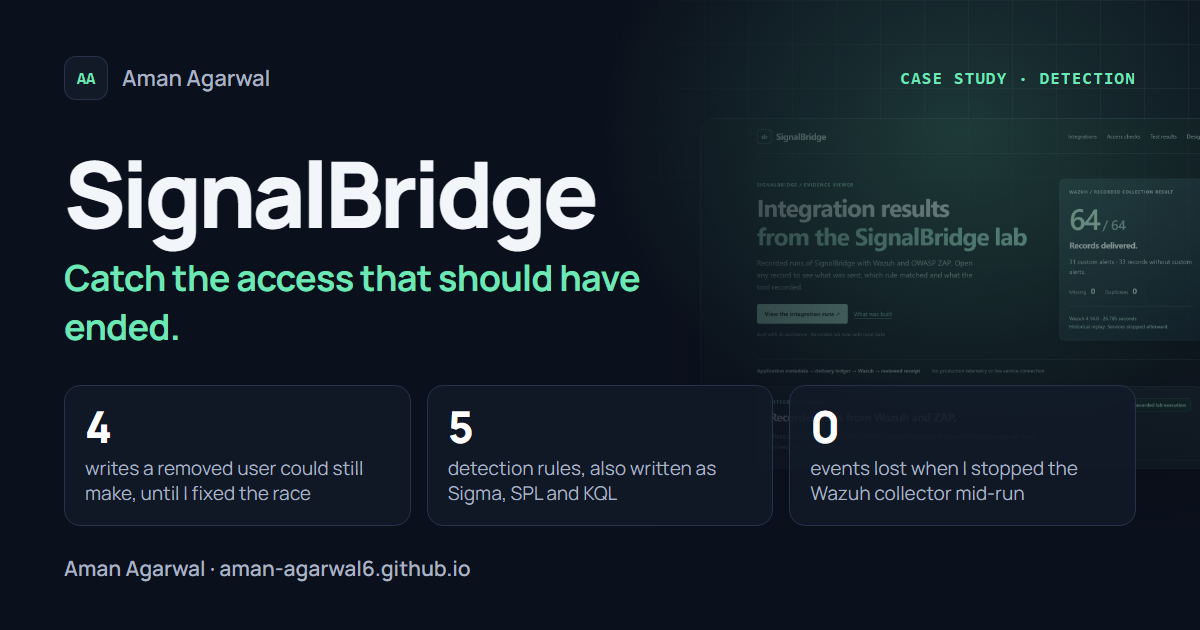
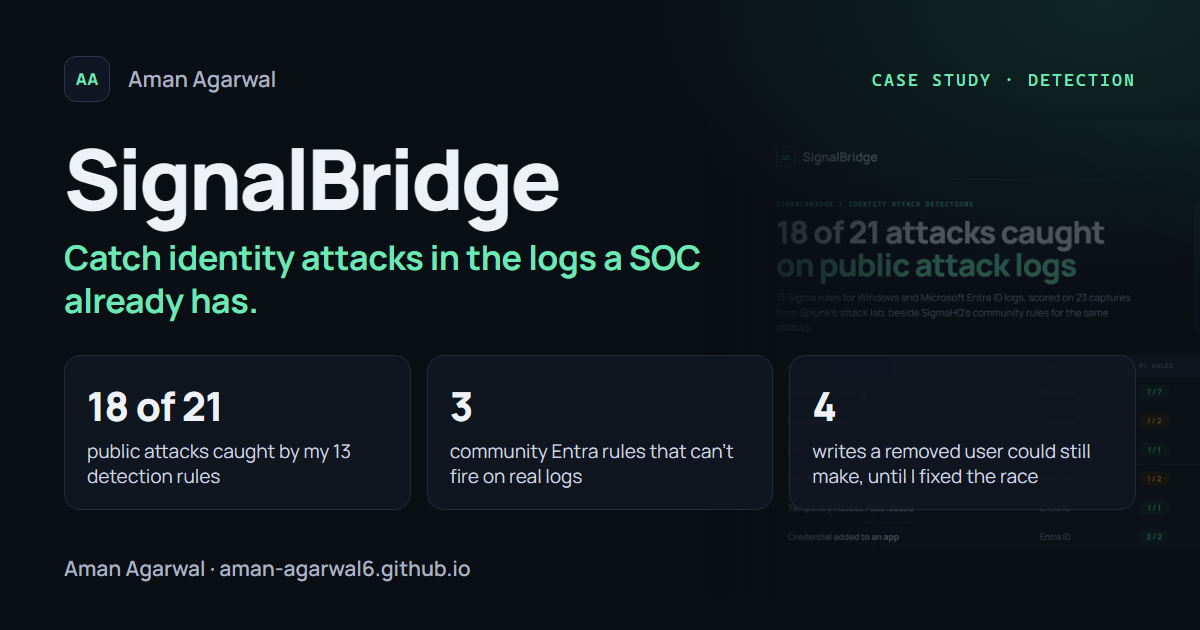
Lead SignalBridge with its identity detection results
- Homepage, case study, recruiter summary and project index describe
  SignalBridge as identity attack detection: 18 of 21 public attack
  captures caught, 3 community Entra rules that can't fire, 4 writes fixed
- New case-study section with the per-attack comparison against SigmaHQ
- New results image and link-preview card replace the old evidence-viewer
  screenshot
- Plain-language intro and findings; jargon moved out of the body text

diff --git a/projects/signalbridge.html b/projects/signalbridge.html
@@ -11,14 +11,14 @@
     <title>SignalBridge case study · Aman Agarwal</title>
     <meta
       name="description"
-      content="SignalBridge is a detection lab that catches access that should have ended. Five detection rules, written as Sigma, SPL and KQL, run against signed app events and real Keycloak, Wazuh, OWASP ZAP and Shuffle in an isolated lab."
+      content="SignalBridge: Sigma detection rules for identity attacks in Windows and Microsoft Entra ID logs, tested on public attack data and compared with SigmaHQ's rules. 18 of 21 attacks caught, plus a lab that catches access that should have ended."
     />
     <link rel="canonical" href="https://aman-agarwal6.github.io/projects/signalbridge.html" />
     <meta property="og:type" content="article" />
-    <meta property="og:title" content="SignalBridge · Catch the access that should have ended" />
+    <meta property="og:title" content="SignalBridge · Catch identity attacks in the logs a SOC already has" />
     <meta
       property="og:description"
-      content="A detection lab with five rules written as Sigma, SPL and KQL, run in Splunk and a Kusto emulator, and tested against real Keycloak, Wazuh, OWASP ZAP and Shuffle."
+      content="13 Sigma rules for password spraying, Kerberoasting, MFA fatigue and device code phishing, tested on 23 public attack captures: 18 of 21 attacks caught, and 3 community Entra rules found that can't fire on real logs."
     />
     <meta property="og:url" content="https://aman-agarwal6.github.io/projects/signalbridge.html" />
     <meta property="og:image" content="https://aman-agarwal6.github.io/assets/img/og-signalbridge.png" />
@@ -53,26 +53,27 @@
         <div class="eyebrow">Case study · Security operations · Detection engineering</div>
         <h1>SignalBridge</h1>
         <p class="lede">
-          A detection lab that catches access that should have ended. Two test apps send signed
-          events about who tried to read what; five detection rules flag access that continues
-          after a permission was removed, and an analyst takes each finding to a verified fix. I
-          ran it against real Keycloak, Wazuh, OWASP ZAP and Shuffle in an isolated lab.
+          Detection rules that catch identity attacks in the logs a security team already
+          collects: Windows domain controller events and Microsoft Entra ID sign-in and audit logs.
+          I tested them on public attack data I didn't write and compared them with the security
+          community's rules for the same attacks. A lab version, run against real Keycloak, Wazuh,
+          OWASP ZAP and Shuffle, catches access that continues after it was removed.
         </p>
         <div class="btn-row">
-          <a class="btn btn-primary" href="https://github.com/aman-agarwal6/signalbridge">Source code</a>
-          <a class="btn btn-ghost" href="https://github.com/aman-agarwal6/signalbridge/blob/main/docs/EVIDENCE.md">Evidence guide</a>
-          <a class="btn btn-ghost" href="https://aman-agarwal6.github.io/signalbridge/portfolio/access-assurance.html">Recorded walkthrough</a>
+          <a class="btn btn-primary" href="https://github.com/aman-agarwal6/signalbridge/blob/main/detections/identity/README.md">Rules and results</a>
+          <a class="btn btn-ghost" href="https://github.com/aman-agarwal6/signalbridge">Source code</a>
+          <a class="btn btn-ghost" href="https://github.com/aman-agarwal6/signalbridge/blob/main/docs/EVIDENCE.md">Lab evidence guide</a>
         </div>
         <ul class="tiles" aria-label="Results at a glance">
+          <li><strong>18 of 21</strong>public attacks caught by my 13 identity rules, with no alerts on unrelated files</li>
+          <li><strong>3</strong>community Entra rules I found can't fire on real log exports</li>
           <li><strong>4</strong>writes a removed user could still make, until I found and fixed the race</li>
-          <li><strong>5</strong>detection rules, also written as Sigma, SPL and KQL and run in real query engines</li>
-          <li><strong>0</strong>events lost or duplicated when I stopped the Wazuh collector mid-run</li>
-          <li><strong>48</strong>attack and benign scenarios scored, with misses and false alerts counted</li>
+          <li><strong>1</strong>critical case, opened when an account AccessOps had offboarded was used again</li>
         </ul>
         <dl class="cs-meta">
           <div>
             <dt>Status</dt>
-            <dd>Public source, signed v0.1.0 release</dd>
+            <dd>Public source; CI re-scores every rule on each change</dd>
           </div>
           <div>
             <dt>Timeline</dt>
@@ -80,56 +81,104 @@
           </div>
           <div>
             <dt>Stack</dt>
-            <dd>Python, Django, PostgreSQL, Docker</dd>
+            <dd>Sigma, Python, Django, PostgreSQL, Docker</dd>
           </div>
           <div>
             <dt>Works with</dt>
-            <dd>Keycloak, Wazuh, OWASP ZAP, Shuffle SOAR, Splunk, Prometheus and Grafana</dd>
+            <dd>Windows Security and Microsoft Entra ID logs, Splunk, KQL, Wazuh, Keycloak, OWASP ZAP, Shuffle SOAR</dd>
           </div>
         </dl>
         <figure class="figure">
-          <a class="screenshot-link" href="../assets/img/signalbridge-evidence.webp" data-image="../assets/img/signalbridge-evidence.webp" data-image-title="SignalBridge evidence viewer" data-caption="The evidence viewer: each lab run with its record, failed runs included" aria-label="Enlarge SignalBridge evidence viewer"><img
-            src="../assets/img/signalbridge-evidence.webp"
+          <a class="screenshot-link" href="../assets/img/signalbridge-identity.png" data-image="../assets/img/signalbridge-identity.png" data-image-title="SignalBridge identity detection results" data-caption="Identity detection results from the score record: my rules and SigmaHQ's on the same public attack logs" aria-label="Enlarge SignalBridge identity detection results"><img
+            src="../assets/img/signalbridge-identity.png"
             width="1600"
             height="1000"
-            alt="The SignalBridge evidence viewer showing lab runs from Wazuh, with each record compared against the rule that fired"
+            alt="SignalBridge identity detection results: 18 of 21 attacks caught on public attack logs, with a per-attack comparison against SigmaHQ's rules"
           /><span class="inspect-button" aria-hidden="true">Enlarge ↗</span></a>
-          <figcaption>The evidence viewer: each lab run with its record, failed runs included.</figcaption>
+          <figcaption>Identity detection results from the score record: my rules and SigmaHQ's on the same public attack logs.</figcaption>
         </figure>
       </div>
 
-      <p class="ownership-decision"><strong>Key decision</strong>Re-check permissions inside the write itself. A test showed that checking first let a just-removed user keep writing, so the check now runs in the same database transaction as the change.</p>
+      <p class="ownership-decision"><strong>Key decision</strong>Test the rules on attack data I didn't write, decide in advance what each one should catch, and publish the first run beside the fixes.</p>
       <nav class="contents" aria-label="On this page">
         <span>In this case study</span><a href="#shows">What it shows</a
-        ><a href="#flow">How it works</a><a href="#caught">What testing found</a
-        ><a href="#results">Results</a><a href="#sigma">Detection as code</a
-        ><a href="#leaver">AccessOps link</a><a href="#limits">Limits</a>
+        ><a href="#identity">Identity detections</a><a href="#flow">How the lab works</a
+        ><a href="#caught">What testing found</a><a href="#results">Lab results</a
+        ><a href="#sigma">Detection as code</a><a href="#leaver">AccessOps link</a
+        ><a href="#limits">Limits</a>
       </nav>
 
       <section class="cs-section" aria-labelledby="shows">
         <h2 id="shows">What it shows</h2>
         <div class="two-col">
           <div class="decision">
-            <h3>Detection engineering</h3>
-            <p>Five versioned rules, rewritten as Sigma with MITRE ATT&amp;CK tags, then run as SPL in Splunk and as KQL in a Kusto emulator.</p>
+            <h3>Identity attack detection</h3>
+            <p>13 Sigma rules for password spraying, Kerberoasting, MFA fatigue, device code phishing and backdoored app credentials, mapped to MITRE ATT&amp;CK.</p>
+          </div>
+          <div class="decision">
+            <h3>Tested on data I didn't write</h3>
+            <p>23 public attack captures from Splunk's attack lab. I wrote down what each rule should catch before the first run, and CI re-scores every rule on each change.</p>
+          </div>
+          <div class="decision">
+            <h3>Checked against the community</h3>
+            <p>SigmaHQ's rules for the same attacks ran on the same logs. Three of their Entra rules can't fire on real exports, and one attack slipped past both their rule and my first draft.</p>
           </div>
           <div class="decision">
             <h3>Real security tools</h3>
-            <p>Keycloak sign-in with MFA, a Wazuh SIEM, OWASP ZAP scans and a Shuffle SOAR workflow, all in an isolated lab.</p>
-          </div>
-          <div class="decision">
-            <h3>From alert to fix</h3>
-            <p>Each finding goes from case to analyst review to a retest, and nobody can approve their own fix.</p>
-          </div>
-          <div class="decision">
-            <h3>Reliable event intake</h3>
-            <p>Signed, de-duplicated events that survived a killed worker, a stopped collector and a 13.5-hour run.</p>
+            <p>In the lab, Keycloak sign-in with MFA, a Wazuh SIEM, OWASP ZAP and a Shuffle SOAR workflow, with every finding taken from case to a reviewed fix.</p>
           </div>
         </div>
       </section>
 
+      <section class="cs-section" aria-labelledby="identity">
+        <h2 id="identity">Identity attack detections</h2>
+        <p class="lede">
+          The rules read the logs most security teams already collect: Windows domain controller
+          Security events and Microsoft Entra ID sign-in and audit logs. I scored them, and
+          SigmaHQ's community rules for the same attacks, on 23 public attack captures from
+          Splunk's attack lab.
+        </p>
+        <div class="table-wrap findings-table" tabindex="0" role="region" aria-label="Scrollable table of identity detection results">
+          <table>
+            <caption class="sr-only">Attack captures caught by my rules and by SigmaHQ's rules, by attack type</caption>
+            <thead>
+              <tr><th scope="col">Attack</th><th scope="col">Logs</th><th scope="col">My rules</th><th scope="col">SigmaHQ's rules</th></tr>
+            </thead>
+            <tbody>
+              <tr><th scope="row">Password spraying</th><td>Windows</td><td>7 of 7</td><td>No rule in the comparison</td></tr>
+              <tr><th scope="row">Password spraying</th><td>Entra ID</td><td>1 of 2: missed a spray spread across many addresses</td><td>No rule in the comparison</td></tr>
+              <tr><th scope="row">Kerberoasting</th><td>Windows</td><td>1 of 2: a single ticket is below the burst threshold</td><td>1 of 2: missed the burst run as SYSTEM</td></tr>
+              <tr><th scope="row">Kerberos pre-authentication turned off</th><td>Windows</td><td>1 of 1</td><td>No rule in the comparison</td></tr>
+              <tr><th scope="row">Sign-in attempts on disabled accounts</th><td>Windows</td><td>1 of 1</td><td>0 of 1: reads only logon codes, not Kerberos</td></tr>
+              <tr><th scope="row">MFA fatigue</th><td>Entra ID</td><td>1 of 2: two failures is below my threshold of three</td><td>2 of 2</td></tr>
+              <tr><th scope="row">Device code phishing</th><td>Entra ID</td><td>1 of 1</td><td>0 of 1: looks for a field the logs don't have</td></tr>
+              <tr><th scope="row">Consent to a malicious app</th><td>Entra ID</td><td>1 of 1</td><td>1 of 1</td></tr>
+              <tr><th scope="row">New MFA method registered</th><td>Entra ID</td><td>2 of 2</td><td>2 of 2</td></tr>
+              <tr><th scope="row">Temporary Access Pass issued</th><td>Entra ID</td><td>1 of 1</td><td>0 of 1: expects an older activity name</td></tr>
+              <tr><th scope="row">Credential added to an app</th><td>Entra ID</td><td>2 of 2</td><td>0 of 2: looks for a field the logs don't have</td></tr>
+            </tbody>
+          </table>
+        </div>
+        <p class="scope-note">The disabled-account capture is also a password spray and counts once in the totals. Overall, my rules caught 18 of 21 attack files and SigmaHQ's caught 6 of the 12 their rules cover; together, 20 of 21. No rule fired on a file it wasn't meant for.</p>
+        <div class="two-col">
+          <div class="decision">
+            <h3>Decided before the first run</h3>
+            <p>Which rules should fire on each file was written down first. The first run caught 17 of 22 expected pairs and showed two design flaws, which I fixed instead of loosening any threshold.</p>
+          </div>
+          <div class="decision">
+            <h3>The attack that hid behind the computer</h3>
+            <p>Kerberoasting run as SYSTEM asks for tickets under the computer's account, which my first draft ignored, like SigmaHQ's rule. My rule now counts every requester and alerts on the burst.</p>
+          </div>
+        </div>
+        <p class="case-evidence-link">
+          <a href="https://github.com/aman-agarwal6/signalbridge/blob/main/detections/identity/README.md">Rules, findings and method</a> ·
+          <a href="https://github.com/aman-agarwal6/signalbridge/blob/main/detections/identity/score-report.json">Score record</a> ·
+          <a href="https://github.com/aman-agarwal6/signalbridge/blob/main/detections/identity/sources.json">Pinned sources and expectations</a>
+        </p>
+      </section>
+
       <section class="cs-section" aria-labelledby="flow">
-        <h2 id="flow">How it works</h2>
+        <h2 id="flow">How the lab works</h2>
         <p class="lede">
           SignalBridge started as a monitor for two of my own apps, BetTail and Netted. For the lab
           I built two test apps, one for documents and one for expenses, with a deliberate access
@@ -216,7 +265,7 @@
       </section>
 
       <section class="cs-section" aria-labelledby="results">
-        <h2 id="results">Results</h2>
+        <h2 id="results">Lab results</h2>
         <p class="scope-note">October 1–5, 2026, in an isolated lab with synthetic data. Each row links the record its run wrote.</p>
         <div class="table-wrap findings-table" tabindex="0" role="region" aria-label="Scrollable table of lab results">
           <table>
@@ -234,7 +283,7 @@
               <tr><th scope="row">PostgreSQL races and a killed worker</th><td>14 checks passed, no partial cases</td><td><a href="https://github.com/aman-agarwal6/signalbridge/blob/main/docs/evidence/20261001-postgresql-in-network-ed3829e7b3dd45379d0c0290e324df85.json">Run</a></td></tr>
               <tr><th scope="row">Continuous run</th><td>27,118 events delivered over 13.5 hours</td><td><a href="https://github.com/aman-agarwal6/signalbridge/blob/main/docs/evidence/20261004-reliability-continuous-894fb388a2004b43b6b1643e93342df4-summary.json">Run</a></td></tr>
               <tr><th scope="row">Prometheus and Grafana</th><td>Backlog alerts fired and cleared; 24 checks passed</td><td><a href="https://github.com/aman-agarwal6/signalbridge/blob/main/docs/evidence/20261003-monitoring-native-0cd4256f4a1c4f2692f67eae4704bd53.json">Run</a></td></tr>
-              <tr><th scope="row">Detection evaluation, 48 scenarios</th><td>71% precision (15 of 21), 65% recall (15 of 23)</td><td><a href="https://github.com/aman-agarwal6/signalbridge/blob/main/docs/evidence/20261005-enterprise-detection-evaluation-public-release.json">Run</a></td></tr>
+              <tr><th scope="row">Lab rules on 48 scenarios I wrote</th><td>71% precision (15 of 21), 65% recall (15 of 23); a regression check, not real-world accuracy</td><td><a href="https://github.com/aman-agarwal6/signalbridge/blob/main/docs/evidence/20261005-enterprise-detection-evaluation-public-release.json">Run</a></td></tr>
             </tbody>
           </table>
         </div>
@@ -309,7 +358,8 @@
       <section class="cs-section prose" aria-labelledby="limits">
         <h2 id="limits">Limits</h2>
         <ul class="limits">
-          <li>Synthetic data in an isolated lab on one PC; not a production deployment.</li>
+          <li>The identity rules ran on attack-lab captures through SQLite, not in Splunk or Sentinel. No alerts on the wrong files is a sanity check, not a false-alarm rate for a real network.</li>
+          <li>The lab used synthetic data in an isolated network on one PC; it is not a production deployment.</li>
           <li>I wrote the 48 evaluation scenarios knowing the rules, so the scores catch regressions rather than measure real-world accuracy.</li>
           <li>The planned 24-hour run stopped at 10.6 hours of Wazuh capture, and I didn't repeat it.</li>
           <li>ZAP ran one passive rule on captured traffic, not an active scan.</li>
@@ -317,7 +367,7 @@
         </ul>
       </section>
 
-      <section class="case-contact" aria-labelledby="discuss-signalbridge"><h2 id="discuss-signalbridge">Discuss SignalBridge</h2><p>Ask about the write race, the query Splunk refused or how a leaver event from AccessOps becomes a case. Email me at <strong>aagarwalcollege@gmail.com</strong>.</p><div class="btn-row"><a class="btn btn-ghost" href="../#projects">All projects →</a></div></section>
+      <section class="case-contact" aria-labelledby="discuss-signalbridge"><h2 id="discuss-signalbridge">Discuss SignalBridge</h2><p>Ask about the community rules that can't fire, the write race or how a leaver event from AccessOps becomes a case. Email me at <strong>aagarwalcollege@gmail.com</strong>.</p><div class="btn-row"><a class="btn btn-ghost" href="../#projects">All projects →</a></div></section>
       <nav class="pager" aria-label="Case studies">
         <a href="accessops.html">← AccessOps</a>
         <a href="bettail.html">Next: BetTail →</a>

diff --git a/index.html b/index.html
@@ -48,7 +48,7 @@
         <p class="hero-kicker" data-enter-stage="0"><span class="status-dot" aria-hidden="true"></span>Open to entry-level security and AI roles from January 2027</p>
         <h1 id="intro" data-enter-stage="1">Aman Agarwal</h1>
         <p class="hero-lead" data-enter-stage="2">I build security controls and AI-powered tools, test them against real systems, and publish what failed alongside what passed.</p>
-        <p class="hero-body">My two security projects work as a pair. AccessOps ends a departing employee’s access in Keycloak, a Microsoft Entra test tenant and an AD-compatible directory; SignalBridge opens a case if the account is used anyway. I also built Downfield, an AI research agent that publishes checked, versioned reports to a live web app. Before that, I automated identity-alert triage in Cortex XSIAM as a cybersecurity intern at HNI.</p>
+        <p class="hero-body">My two security projects are about who can still get into an account. AccessOps automates offboarding and checks every system to prove a departing employee’s access is really gone. SignalBridge catches identity attacks, such as password spraying and MFA fatigue, in Windows and Microsoft Entra logs, and I tested it on public attack data. I also built Downfield, an AI research agent that publishes checked, versioned reports to a live web app. Before that, I automated identity-alert triage in Cortex XSIAM as a cybersecurity intern at HNI.</p>
         <div class="btn-row"><a class="btn btn-primary" href="#projects">See the work <span aria-hidden="true">↓</span></a></div>
         <ul class="hero-links">
           <li><a href="https://github.com/aman-agarwal6">GitHub <span aria-hidden="true">↗</span></a></li>
@@ -58,15 +58,15 @@
       </div>
       <div class="hero-media" data-enter-stage="3">
         <figure class="window window-back">
-          <div class="window-bar" aria-hidden="true"><i></i><i></i><i></i><b>SignalBridge · evidence viewer</b></div>
-          <a class="screenshot-link" href="assets/img/signalbridge-evidence.webp" data-image="assets/img/signalbridge-evidence.webp" data-image-title="SignalBridge evidence viewer" data-caption="SignalBridge evidence viewer: recorded Wazuh runs from an isolated local lab with synthetic data." aria-label="Enlarge SignalBridge evidence viewer"><img src="assets/img/signalbridge-evidence.webp" width="1600" height="1000" alt="SignalBridge evidence viewer: recorded Wazuh runs from an isolated local lab with synthetic data." /></a>
+          <div class="window-bar" aria-hidden="true"><i></i><i></i><i></i><b>SignalBridge · identity detections</b></div>
+          <a class="screenshot-link" href="assets/img/signalbridge-identity.png" data-image="assets/img/signalbridge-identity.png" data-image-title="SignalBridge identity detection results" data-caption="SignalBridge identity detection results: my rules caught 18 of 21 attacks in public attack logs; SigmaHQ's caught 6 of the 12 their rules cover." aria-label="Enlarge SignalBridge identity detection results"><img src="assets/img/signalbridge-identity.png" width="1600" height="1000" alt="SignalBridge identity detection results: 18 of 21 attacks caught on public attack logs, with a per-attack comparison against SigmaHQ's rules." /></a>
         </figure>
         <figure class="window window-front">
           <div class="window-bar" aria-hidden="true"><i></i><i></i><i></i><b>AccessOps · overview</b></div>
           <a class="screenshot-link" href="assets/img/accessops-overview.webp" data-image="assets/img/accessops-overview.webp" data-image-title="AccessOps overview" data-caption="AccessOps public demo with synthetic data: open departures, the 4-hour target and the next step for each case." aria-label="Enlarge AccessOps overview"><img src="assets/img/accessops-overview.webp" width="1440" height="960" alt="AccessOps public demo with synthetic data: open departures, the 4-hour target and the next step for each case." fetchpriority="high" /></a>
         </figure>
         <p class="proof-chip chip-a"><span class="chip-label">AccessOps</span>HR departure → access ended → every system read back</p>
-        <p class="proof-chip chip-b"><span class="chip-label">SignalBridge</span>Sign-in after departure → critical case</p>
+        <p class="proof-chip chip-b"><span class="chip-label">SignalBridge</span>Public attack logs → 18 of 21 attacks caught</p>
       </div>
     </div>
   </section>
@@ -112,22 +112,22 @@
     <article class="feature feature-flip" id="project-signalbridge" data-reveal>
       <div class="feature-media">
         <figure class="window">
-          <div class="window-bar" aria-hidden="true"><i></i><i></i><i></i><b>SignalBridge · evidence viewer</b></div>
-          <a class="screenshot-link" href="assets/img/signalbridge-evidence.webp" data-image="assets/img/signalbridge-evidence.webp" data-image-title="SignalBridge evidence viewer" data-caption="SignalBridge evidence viewer: recorded Wazuh runs from an isolated local lab with synthetic data." aria-label="Enlarge SignalBridge evidence viewer"><img src="assets/img/signalbridge-evidence.webp" width="1600" height="1000" alt="SignalBridge evidence viewer: recorded Wazuh runs from an isolated local lab with synthetic data." loading="lazy" /><span class="inspect-button" aria-hidden="true">Enlarge ↗</span></a>
+          <div class="window-bar" aria-hidden="true"><i></i><i></i><i></i><b>SignalBridge · identity detections</b></div>
+          <a class="screenshot-link" href="assets/img/signalbridge-identity.png" data-image="assets/img/signalbridge-identity.png" data-image-title="SignalBridge identity detection results" data-caption="SignalBridge identity detection results: my rules caught 18 of 21 attacks in public attack logs; SigmaHQ's caught 6 of the 12 their rules cover." aria-label="Enlarge SignalBridge identity detection results"><img src="assets/img/signalbridge-identity.png" width="1600" height="1000" alt="SignalBridge identity detection results: 18 of 21 attacks caught on public attack logs, with a per-attack comparison against SigmaHQ's rules." loading="lazy" /><span class="inspect-button" aria-hidden="true">Enlarge ↗</span></a>
         </figure>
-        <ul class="badges" aria-label="Availability"><li>Public source</li><li>Signed release</li><li>Isolated local lab</li></ul>
+        <ul class="badges" aria-label="Availability"><li>Public source</li><li>Public attack data</li><li>Re-scored in CI</li></ul>
       </div>
       <div class="feature-body">
         <p class="project-label"><span class="num">02</span>Security operations · Detection engineering</p>
         <h3><a href="projects/signalbridge.html">SignalBridge</a></h3>
-        <p class="tagline">Catch the access that should have ended.</p>
-        <p class="feature-desc">A detection lab that catches access that should have ended. Five detection rules, also written as Sigma, SPL and KQL, run against signed app events, and each finding goes through analyst review to a verified fix. It also receives AccessOps’ leaver events and opens a critical case if a departed account signs in.</p>
+        <p class="tagline">Catch identity attacks in the logs a SOC already has.</p>
+        <p class="feature-desc">Detection rules for password spraying, Kerberoasting, MFA fatigue and device code phishing in Windows and Microsoft Entra ID logs. I tested them on public attack data and compared them with the security community’s rules for the same attacks. A lab version also catches access that continues after it was removed, and opens a critical case when AccessOps reports a departed account in use.</p>
         <ul class="metrics">
+          <li><strong>18 of 21</strong><span>public attack captures caught by my 13 rules, with no alerts on unrelated files</span></li>
+          <li><strong>3</strong><span>community Entra rules I found can’t fire on real log exports</span></li>
           <li><strong>4</strong><span>writes a removed user could still make, until I found and fixed the race</span></li>
-          <li><strong>5</strong><span>detection rules, also written as Sigma, SPL and KQL and run in real query engines</span></li>
-          <li><strong>0</strong><span>events lost or duplicated when I stopped the Wazuh collector mid-run</span></li>
         </ul>
-        <ul class="stack" aria-label="Technologies"><li>Python</li><li>Django</li><li>PostgreSQL</li><li>Docker</li><li>Wazuh</li><li>Keycloak</li><li>Sigma</li><li>OWASP ZAP</li></ul>
+        <ul class="stack" aria-label="Technologies"><li>Sigma</li><li>Splunk SPL</li><li>KQL</li><li>Microsoft Entra ID</li><li>Windows Security logs</li><li>MITRE ATT&amp;CK</li><li>Python</li><li>Wazuh</li></ul>
         <div class="feature-actions"><a class="btn btn-primary" href="projects/signalbridge.html">Read the case study <span aria-hidden="true">→</span></a><a class="btn btn-ghost" href="https://github.com/aman-agarwal6/signalbridge">Source <span aria-hidden="true">↗</span></a></div>
       </div>
     </article>
@@ -239,7 +239,7 @@
         <h3>Disabled, but still signed in</h3>
         <dl>
           <div><dt>Found</dt><dd>After the account was disabled, the person stayed signed in to the app and Keycloak kept their session.</dd></div>
-          <div><dt>Fixed</dt><dd>Offboarding now ends every Keycloak session and sends a back-channel logout; the step only counts once no session is left.</dd></div>
+          <div><dt>Fixed</dt><dd>Offboarding now ends every sign-in session and signs the person out of each app; the step only counts once no session is left.</dd></div>
           <div><dt>Proof</dt><dd>22 before-and-after session and token checks, from refresh tokens to a token the app checks itself.</dd></div>
         </dl>
         <p class="finding-links"><a href="https://github.com/aman-agarwal6/AccessOps/blob/main/docs/verification.md">Verification ledger <span aria-hidden="true">↗</span></a><a href="projects/accessops.html#caught">All six gaps <span aria-hidden="true">→</span></a></p>
@@ -248,31 +248,31 @@
         <p class="finding-tag"><b>SignalBridge</b>Authorization</p>
         <h3>Writes accepted after access was removed</h3>
         <dl>
-          <div><dt>Found</dt><dd>A user just removed from a workspace could still complete 4 case writes through a time-of-check to time-of-use gap.</dd></div>
-          <div><dt>Fixed</dt><dd>The account and role are re-checked inside the database transaction, before the record is locked.</dd></div>
+          <div><dt>Found</dt><dd>A user just removed from a workspace could still save 4 changes, because access was checked before the write instead of during it.</dd></div>
+          <div><dt>Fixed</dt><dd>Access is now checked inside the same database transaction as the write.</dd></div>
           <div><dt>Proof</dt><dd>13 regression tests covering revoked access, disabled accounts and workspace changes.</dd></div>
         </dl>
         <p class="finding-links"><a href="https://github.com/aman-agarwal6/signalbridge/blob/60158010c3c6a3bff2f82017d632534c85c7ba57/bridge/services.py">Fix <span aria-hidden="true">↗</span></a><a href="https://github.com/aman-agarwal6/signalbridge/blob/60158010c3c6a3bff2f82017d632534c85c7ba57/tests/test_authorization_refresh.py">Tests <span aria-hidden="true">↗</span></a><a href="https://github.com/aman-agarwal6/signalbridge/blob/60158010c3c6a3bff2f82017d632534c85c7ba57/docs/evidence/20260925-authorization-refresh.json">Before and after <span aria-hidden="true">↗</span></a></p>
       </article>
       <article class="finding" data-reveal>
         <p class="finding-tag"><b>SignalBridge</b>Detection</p>
-        <h3>A detection query Splunk refused</h3>
+        <h3>Community rules that can’t fire</h3>
         <dl>
-          <div><dt>Found</dt><dd>pySigma compiled one of my rules into a Splunk query that looked fine, but Splunk refused to run it.</dd></div>
-          <div><dt>Fixed</dt><dd>I hand-wrote that rule’s SPL with rolling windows and labeled which queries are generated and which are hand-written.</dd></div>
-          <div><dt>Proof</dt><dd>All five rules run in Splunk Free and a Kusto emulator against the same 48 scenarios.</dd></div>
+          <div><dt>Found</dt><dd>Three of SigmaHQ’s Microsoft Entra rules, for device code phishing, Temporary Access Passes and new app credentials, look for a field that real sign-in and audit logs don’t have.</dd></div>
+          <div><dt>Fixed</dt><dd>My rules match the fields Entra actually records, and CI re-scores every rule on the same public attack logs.</dd></div>
+          <div><dt>Proof</dt><dd>On 23 public attack captures, my rules caught 18 of 21 attacks; SigmaHQ’s caught 6 of the 12 they cover.</dd></div>
         </dl>
-        <p class="finding-links"><a href="https://github.com/aman-agarwal6/signalbridge/blob/main/detections/README.md">Engine results <span aria-hidden="true">↗</span></a><a href="projects/signalbridge.html#sigma">Detection as code <span aria-hidden="true">→</span></a></p>
+        <p class="finding-links"><a href="https://github.com/aman-agarwal6/signalbridge/blob/main/detections/identity/README.md">Results and rules <span aria-hidden="true">↗</span></a><a href="projects/signalbridge.html#identity">How it was scored <span aria-hidden="true">→</span></a></p>
       </article>
       <article class="finding" data-reveal>
-        <p class="finding-tag"><b>SignalBridge</b>Identity</p>
-        <h3>The security policy blocked sign-in</h3>
+        <p class="finding-tag"><b>SignalBridge</b>Detection</p>
+        <h3>An attack that hid behind the computer’s account</h3>
         <dl>
-          <div><dt>Found</dt><dd>A keyboard-only browser test showed the console’s Content-Security-Policy blocked the redirect to Keycloak.</dd></div>
-          <div><dt>Fixed</dt><dd>The console’s policy was corrected and the fix got its own regression test.</dd></div>
-          <div><dt>Proof</dt><dd>28 Keycloak protocol checks, from callback replay to back-channel logout, and 5 real-browser checks passed.</dd></div>
+          <div><dt>Found</dt><dd>Kerberoasting run as SYSTEM asks for tickets under the computer’s account. SigmaHQ’s rule and my first draft both ignored computer accounts, so both missed tickets for 25 services in ten minutes.</dd></div>
+          <div><dt>Fixed</dt><dd>My rule now counts every requester and alerts on the burst itself, so it no longer needs that filter.</dd></div>
+          <div><dt>Proof</dt><dd>The burst is caught with no new alerts on the other 22 files. The first run and the change are both published.</dd></div>
         </dl>
-        <p class="finding-links"><a href="https://github.com/aman-agarwal6/signalbridge/blob/main/docs/evidence/20261004-identity-native-73632025aeee400bb7ee49b69fba7c99.json">Identity run record <span aria-hidden="true">↗</span></a></p>
+        <p class="finding-links"><a href="https://github.com/aman-agarwal6/signalbridge/blob/main/detections/identity/rules/windows/w1_kerberoasting_burst.yml">Rule <span aria-hidden="true">↗</span></a><a href="https://github.com/aman-agarwal6/signalbridge/blob/main/detections/identity/score-report.json">Score record <span aria-hidden="true">↗</span></a></p>
       </article>
     </div>
     <p class="findings-more" data-reveal>AccessOps’ live runs found six gaps that disabling an account leaves open, from a surviving group membership to Kerberos tickets valid for 10 hours. Each was fixed or documented. <a href="projects/accessops.html#caught">See all six <span aria-hidden="true">→</span></a></p>

diff --git a/overview.html b/overview.html
@@ -67,7 +67,7 @@
     <h2 id="projects-title">Selected projects</h2>
     <div class="summary-projects">
       <article><div><h3><a href="projects/accessops.html">AccessOps</a></h3><span class="summary-status">Public source and demo · Signed release</span></div><div><p class="summary-lede">Automated employee offboarding that proves the person's access is really gone, across Microsoft Entra ID (test tenant), Keycloak and an Active Directory-compatible directory.</p><ul class="summary-points"><li><strong>2.6 s</strong> from the HR event to the person signed out and their tokens blocked</li><li><strong>6 gaps</strong> found by live testing, from a surviving group membership to Kerberos tickets valid for 10 hours, each fixed or documented</li><li><strong>20 s</strong> for Entra to confirm the change; <strong>32 s</strong> to catch a sign-in after someone has left</li></ul><small>Python / Django / PostgreSQL / React / Keycloak / Microsoft Entra ID / OPA</small></div></article>
-      <article><div><h3><a href="projects/signalbridge.html">SignalBridge</a></h3><span class="summary-status">Public source · Signed release</span></div><div><p class="summary-lede">A detection lab that catches access that should have ended, tested against real Keycloak, Wazuh, OWASP ZAP and Shuffle.</p><ul class="summary-points"><li>Found and fixed a race that let a removed user make <strong>4 writes</strong></li><li><strong>5 detection rules</strong> written as Sigma, SPL and KQL and run in Splunk and a Kusto emulator</li><li>Opens a critical case when an account offboarded by AccessOps is used again</li></ul><small>Python / Django / PostgreSQL / Docker / Wazuh / Keycloak / Sigma</small></div></article>
+      <article><div><h3><a href="projects/signalbridge.html">SignalBridge</a></h3><span class="summary-status">Public source · Signed release</span></div><div><p class="summary-lede">Detection rules for identity attacks in Windows and Microsoft Entra ID logs, tested on public attack data and compared with the security community's rules.</p><ul class="summary-points"><li><strong>13 Sigma rules</strong> for password spraying, Kerberoasting, MFA fatigue and device code phishing caught <strong>18 of 21</strong> public attack captures, with no alerts on unrelated files</li><li>Found <strong>3 community Entra rules</strong> that can't fire on real log exports, and an attack that slipped past both their rule and my first draft</li><li>Lab version: found and fixed a race that let a removed user make <strong>4 writes</strong>; opens a critical case when an account offboarded by AccessOps is used again</li></ul><small>Sigma / Splunk SPL / KQL / Microsoft Entra ID / Windows Security logs / MITRE ATT&amp;CK / Python / Wazuh</small></div></article>
       <article><div><h3><a href="projects/bettail.html">BetTail</a></h3><span class="summary-status">Live · Private source</span></div><div><p class="summary-lede">A live web app where private groups share sports picks and see profit, ROI and leaderboards calculated in the database.</p><ul class="summary-points"><li>Every request runs as the signed-in user under <strong>row-level security</strong>; no admin database key in the app</li><li>My security review found and fixed <strong>6 issues</strong>, including a NULL that skipped a guard and a CSV export open to formula injection</li><li>Shows <strong>AI research reports</strong> from Downfield, published through a report-only credential</li></ul><small>TypeScript / Next.js / PostgreSQL / Supabase</small></div></article>
       <article><div><h3><a href="projects/netted.html">Netted</a></h3><span class="summary-status">Deployed beta · Private source</span></div><div><p class="summary-lede">A personal-finance app for trade profit, shared funds and budgeting, built from a spreadsheet and accounting rules I wrote first.</p><ul class="summary-points"><li><strong>MFA enforced inside the database</strong>, so the API can't skip it</li><li>Security assessment for non-technical decision makers and a <strong>7-item risk register</strong> with owners and due dates</li><li>All <strong>506 journal records</strong> restored from an encrypted backup, hash-matched</li></ul><small>TypeScript / Next.js / PostgreSQL / Supabase</small></div></article>
       <article><div><h3><a href="projects/downfield.html">Downfield</a></h3><span class="summary-status">Running locally · Private source</span></div><div><p class="summary-lede">A local AI research agent that turns game, injury, news and weather data into structured NFL reports for BetTail.</p><ul class="summary-points"><li>Covered <strong>32 games</strong> across two NFL weeks so far, with 415 saved reports from pregame forecasts to postgame grades</li><li>Code checks <strong>every report</strong> for schema, arithmetic and cross-player totals before it's published</li><li><strong>Versioned forecasts</strong>, graded against final stats after each game</li><li>Runs with <strong>2 allowed tools</strong> and no app secrets; web pages treated as untrusted</li></ul><small>Node.js / JavaScript / JSON Schema / Claude</small></div></article>

diff --git a/docs/PROJECTS.md b/docs/PROJECTS.md
@@ -14,13 +14,13 @@ Automated employee offboarding that proves the person's access is really gone, a
 
 ## SignalBridge
 
-A detection lab that catches access that should have ended, tested against real Keycloak, Wazuh, OWASP ZAP and Shuffle.
+Detection rules for identity attacks in Windows and Microsoft Entra ID logs, tested on public attack data and compared with the security community's rules. A lab version catches access that should have ended.
 
-- Found and fixed a race that let a removed user make **4 writes**
-- **5 detection rules** written as Sigma, SPL and KQL and run in Splunk and a Kusto emulator
-- Opens a critical case when an account offboarded by AccessOps is used again
+- **13 Sigma rules** caught **18 of 21** public attack captures, with no alerts on unrelated files
+- Found **3 community Entra rules** that can't fire on real log exports
+- Lab version: found and fixed a race that let a removed user make **4 writes**; opens a critical case when an account offboarded by AccessOps is used again
 
-[Case study](https://aman-agarwal6.github.io/projects/signalbridge.html) · [Source](https://github.com/aman-agarwal6/signalbridge) · [Evidence guide](https://github.com/aman-agarwal6/signalbridge/blob/main/docs/EVIDENCE.md) · [Authorization fix and scanner triage](../proof/ai-security/signalbridge.md)
+[Case study](https://aman-agarwal6.github.io/projects/signalbridge.html) · [Source](https://github.com/aman-agarwal6/signalbridge) · [Rules and results](https://github.com/aman-agarwal6/signalbridge/blob/main/detections/identity/README.md) · [Evidence guide](https://github.com/aman-agarwal6/signalbridge/blob/main/docs/EVIDENCE.md) · [Authorization fix and scanner triage](../proof/ai-security/signalbridge.md)
 
 ## BetTail
 
